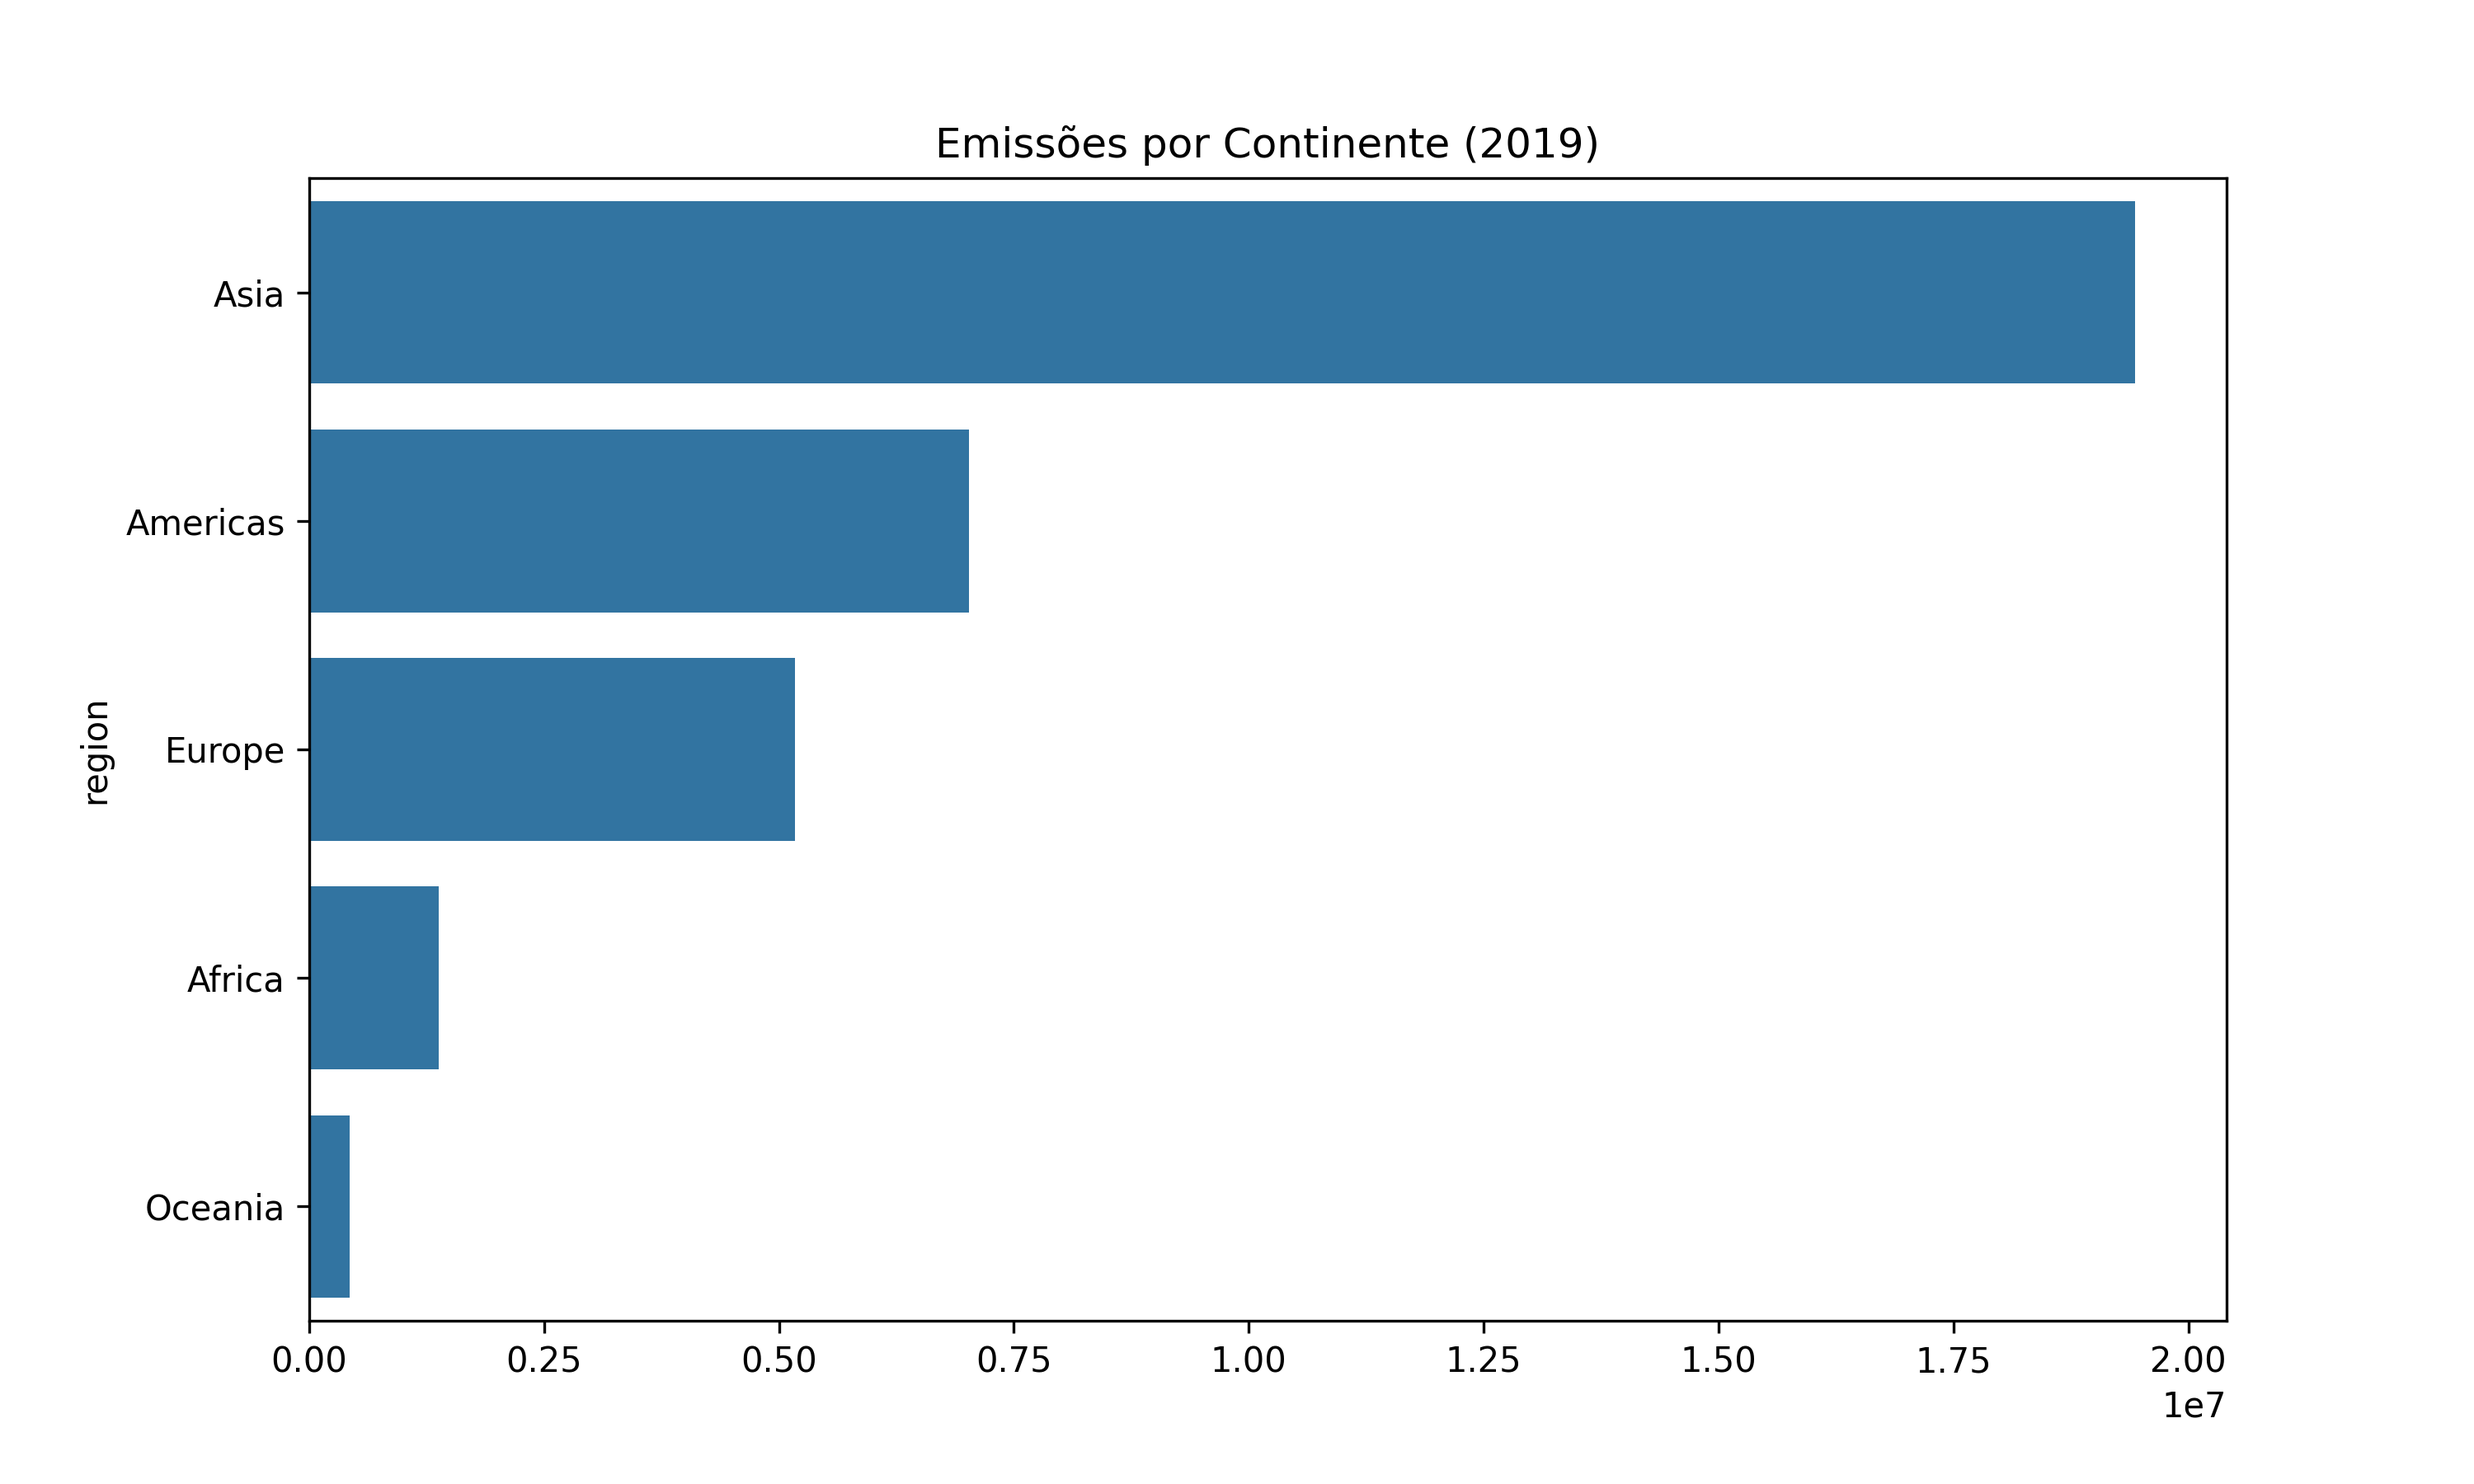
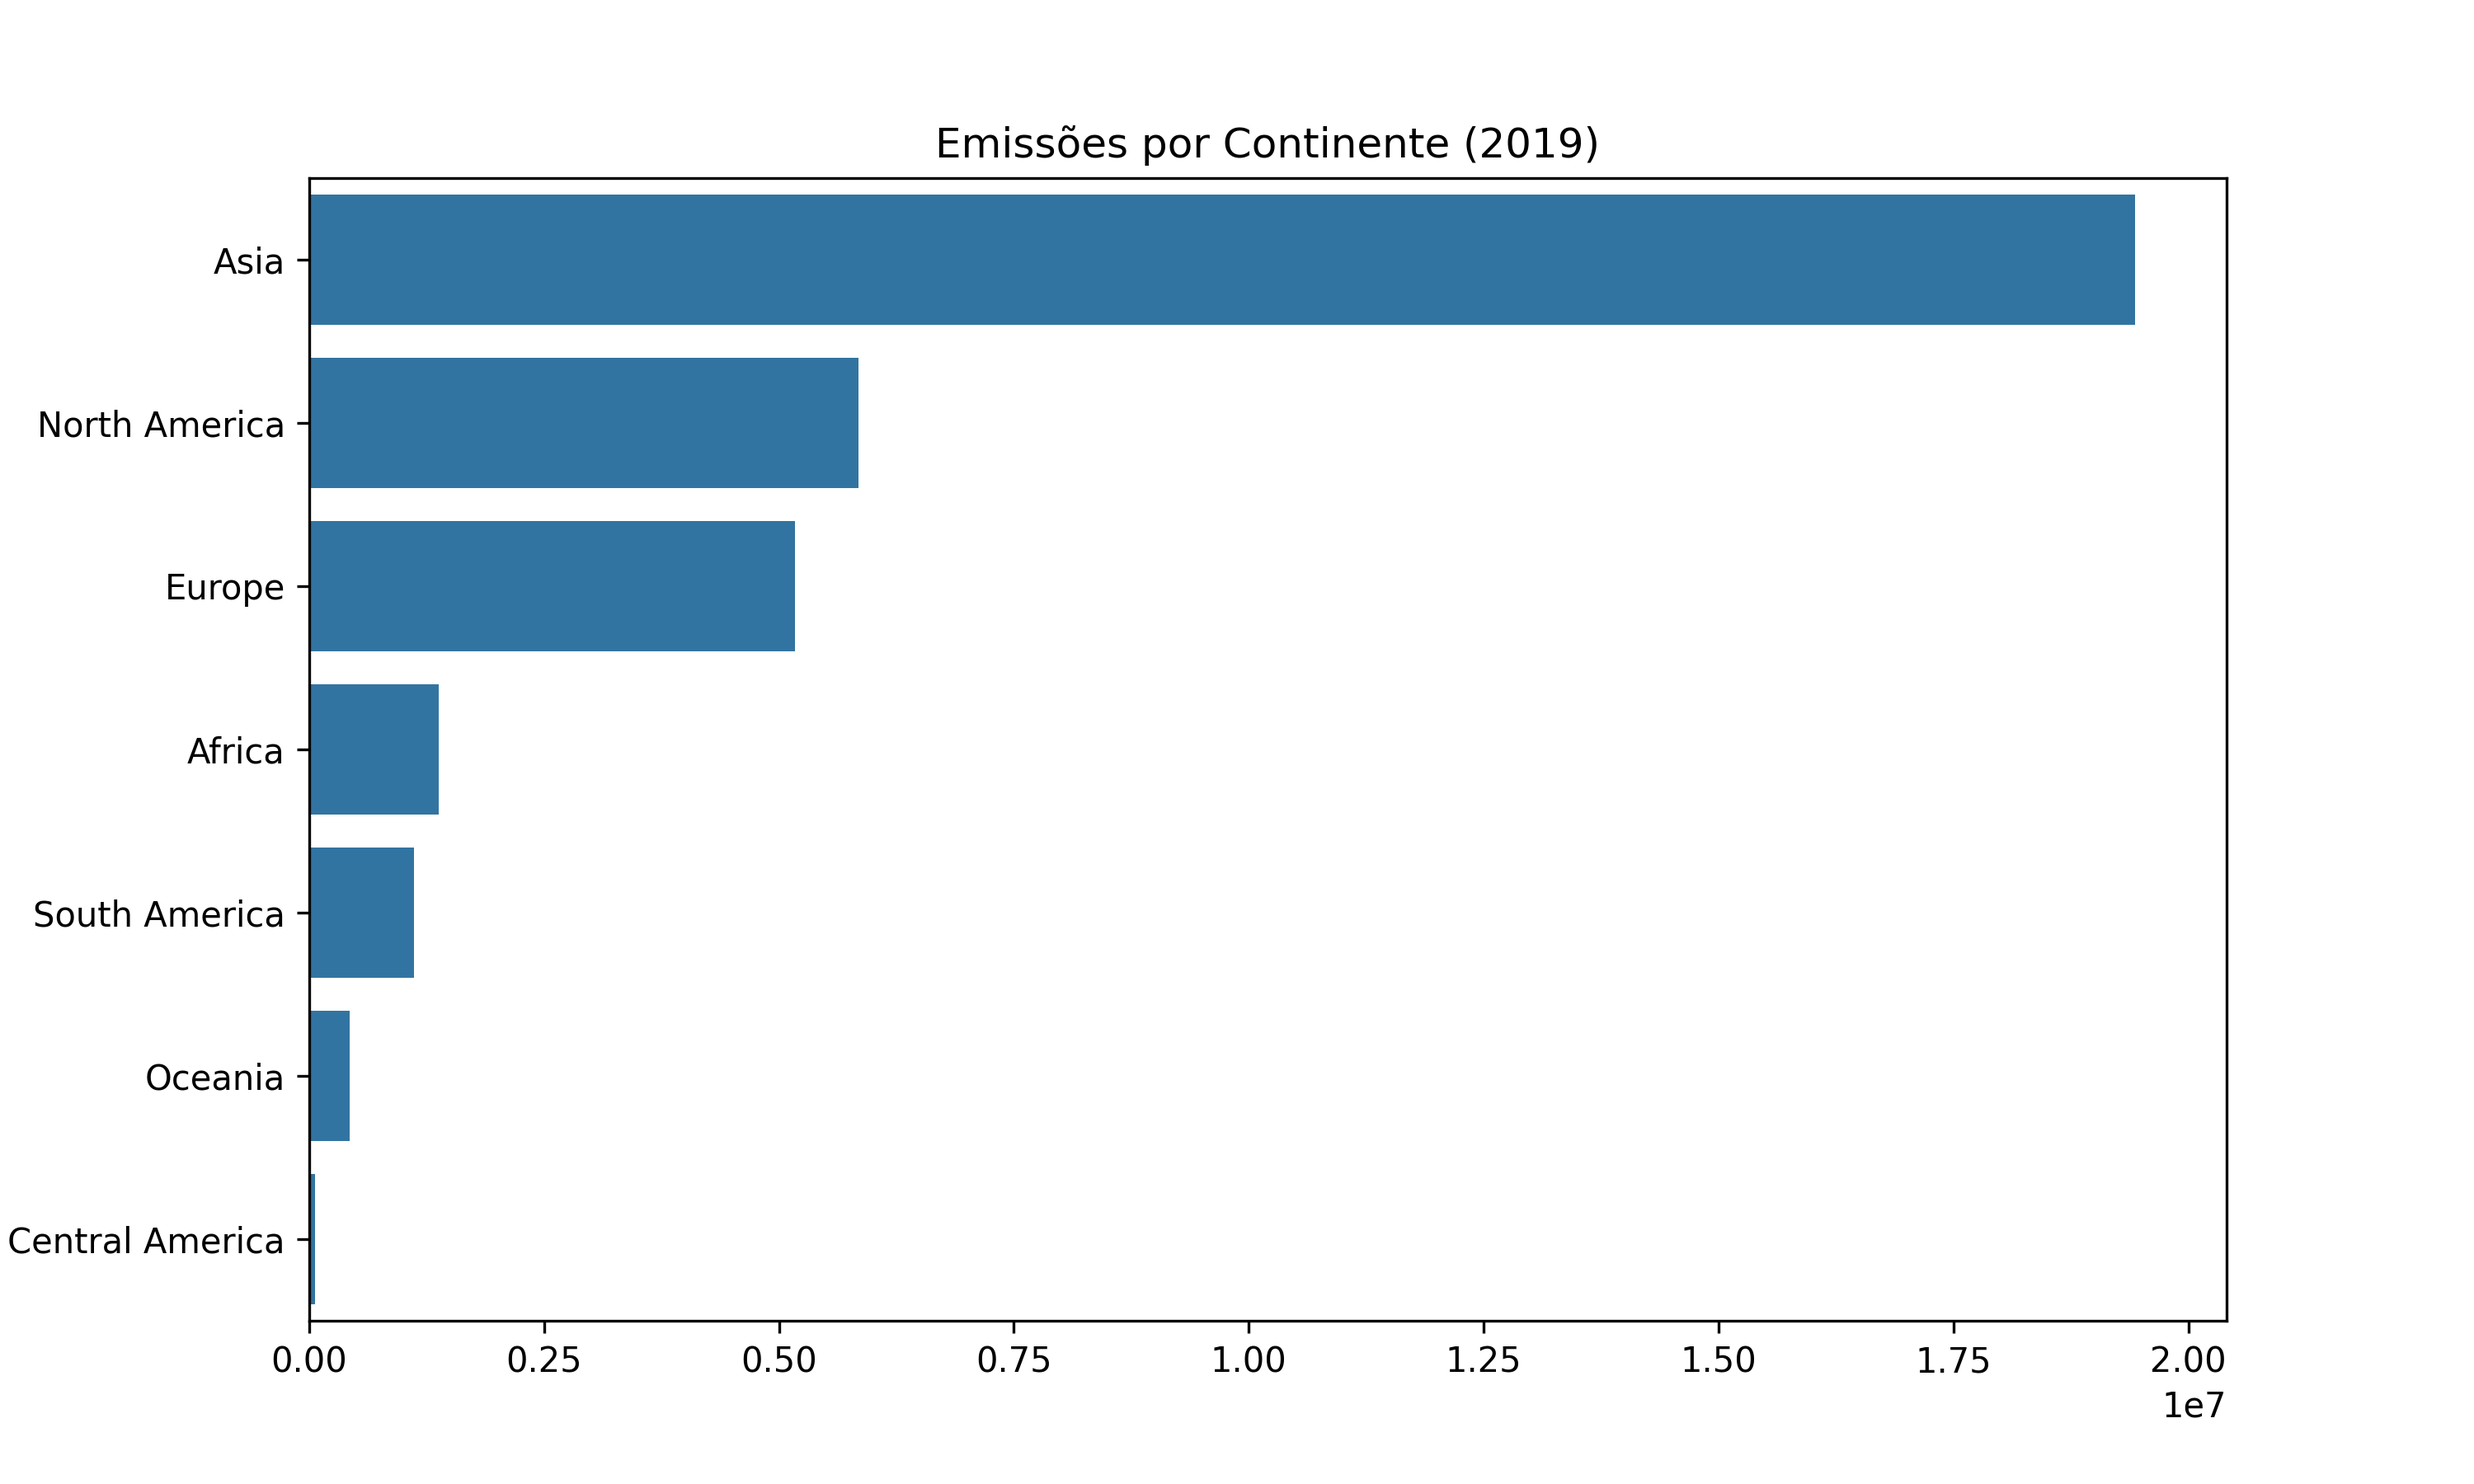
fix: separation contry americas

diff --git a/new/maps.py b/new/maps.py
@@ -42,6 +42,27 @@ df['date'] = pd.to_datetime(df['date'], dayfirst=True, errors='coerce')
 df = df.dropna(subset=['date'])
 df['year'] = df['date'].dt.year
 
+def ajustar_regiao(row):
+    if row['region'] == 'Americas':
+        pais = row['country']
+
+        norte = ['United States', 'Canada', 'Mexico']
+        central = [
+            'Guatemala', 'Belize', 'Honduras', 'El Salvador',
+            'Nicaragua', 'Costa Rica', 'Panama'
+        ]
+
+        if pais in norte:
+            return 'North America'
+        elif pais in central:
+            return 'Central America'
+        else:
+            return 'South America'
+
+    return row['region']
+
+df['region_adj'] = df.apply(ajustar_regiao, axis=1)
+
 world = gpd.read_file(CAMINHO_MAPA)
 
 def get_iso3(nome):
@@ -120,10 +141,12 @@ plot_mapa(
     'Blues'
 )
 
-continentes = df_year['region'].dropna().unique()
+# continentes = df_year['region'].dropna().unique()
+continentes = df_year['region_adj'].dropna().unique()
 
 for cont in continentes:
-    df_cont = df_year[df_year['region'] == cont]
+    # df_cont = df_year[df_year['region'] == cont]
+    df_cont = df_year[df_year['region_adj'] == cont]
 
     merged_cont = world.merge(df_cont, left_on='ISO_A3', right_on='iso3', how='inner')
 
@@ -163,7 +186,8 @@ for ano in anos:
         'Reds'
     )
 
-df_continent = df_year.groupby('region')['co2_kt'].sum().sort_values(ascending=False)
+# df_continent = df_year.groupby('region')['co2_kt'].sum().sort_values(ascending=False)
+df_continent = df_year.groupby('region_adj')['co2_kt'].sum().sort_values(ascending=False)
 
 plt.figure(figsize=(10, 6))
 sns.barplot(x=df_continent.values, y=df_continent.index)
